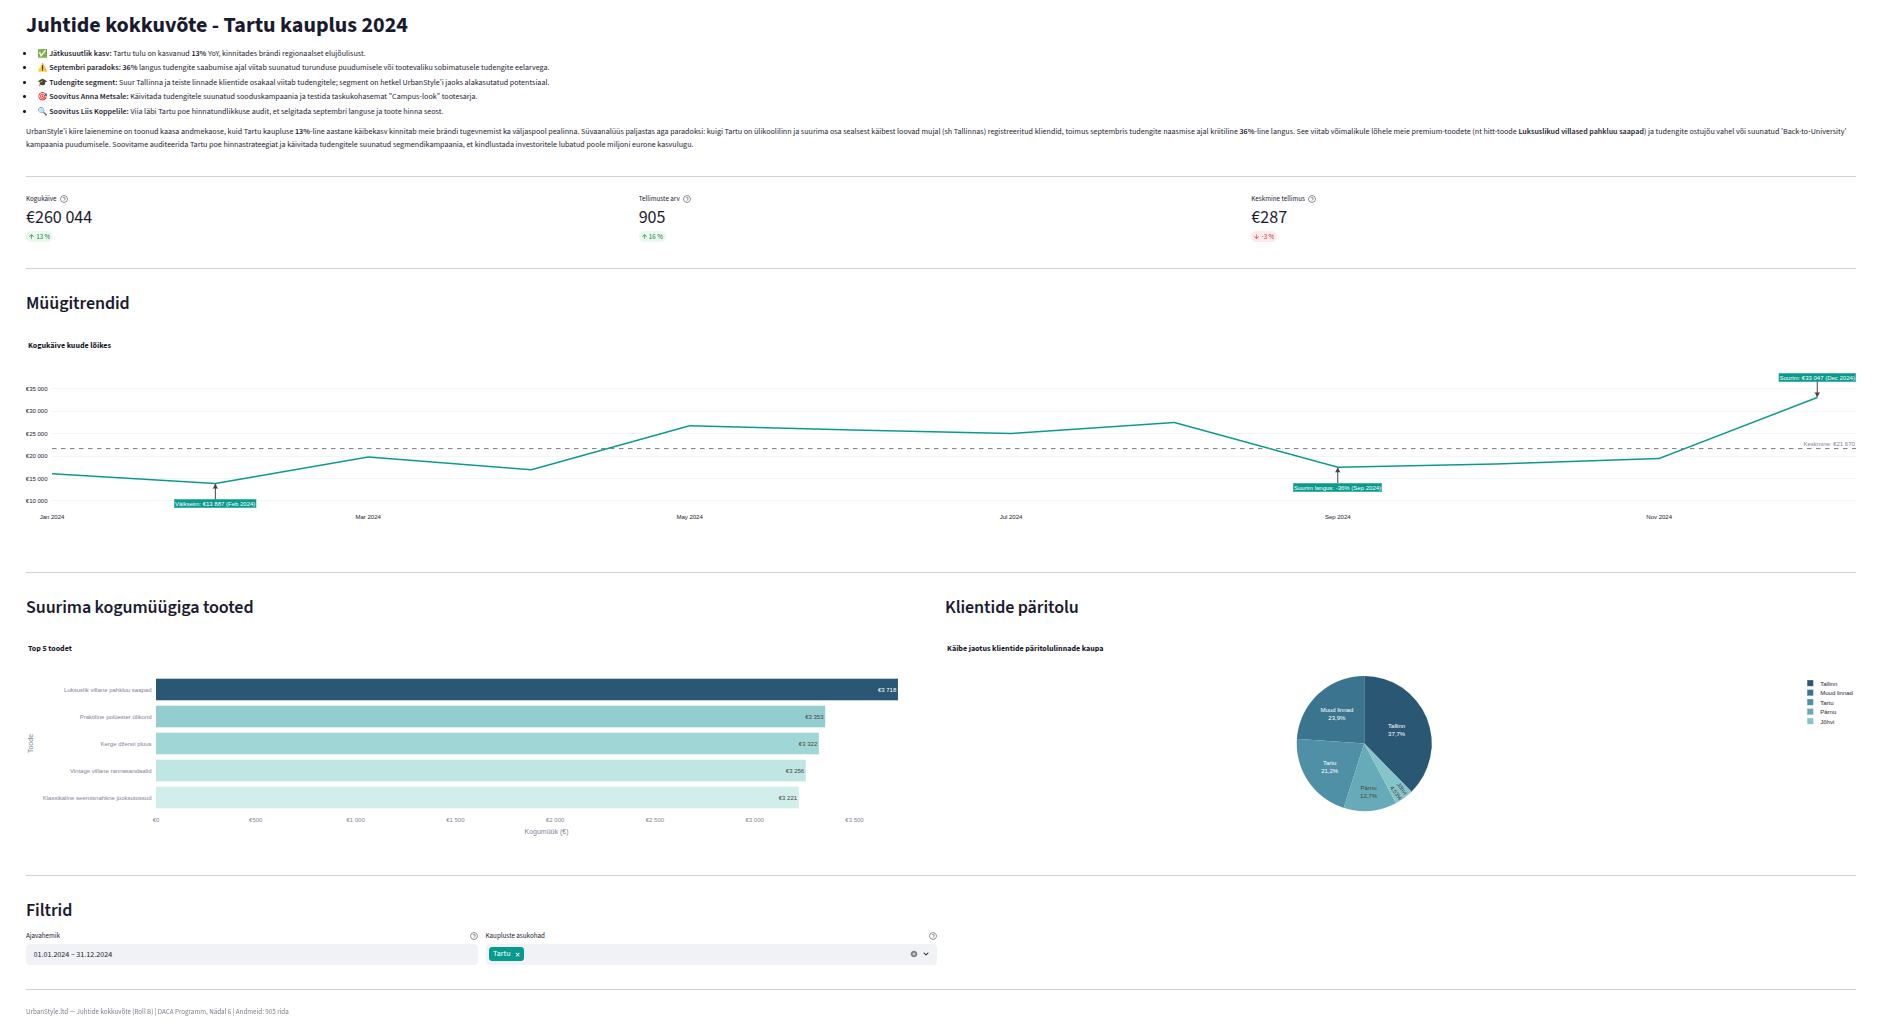
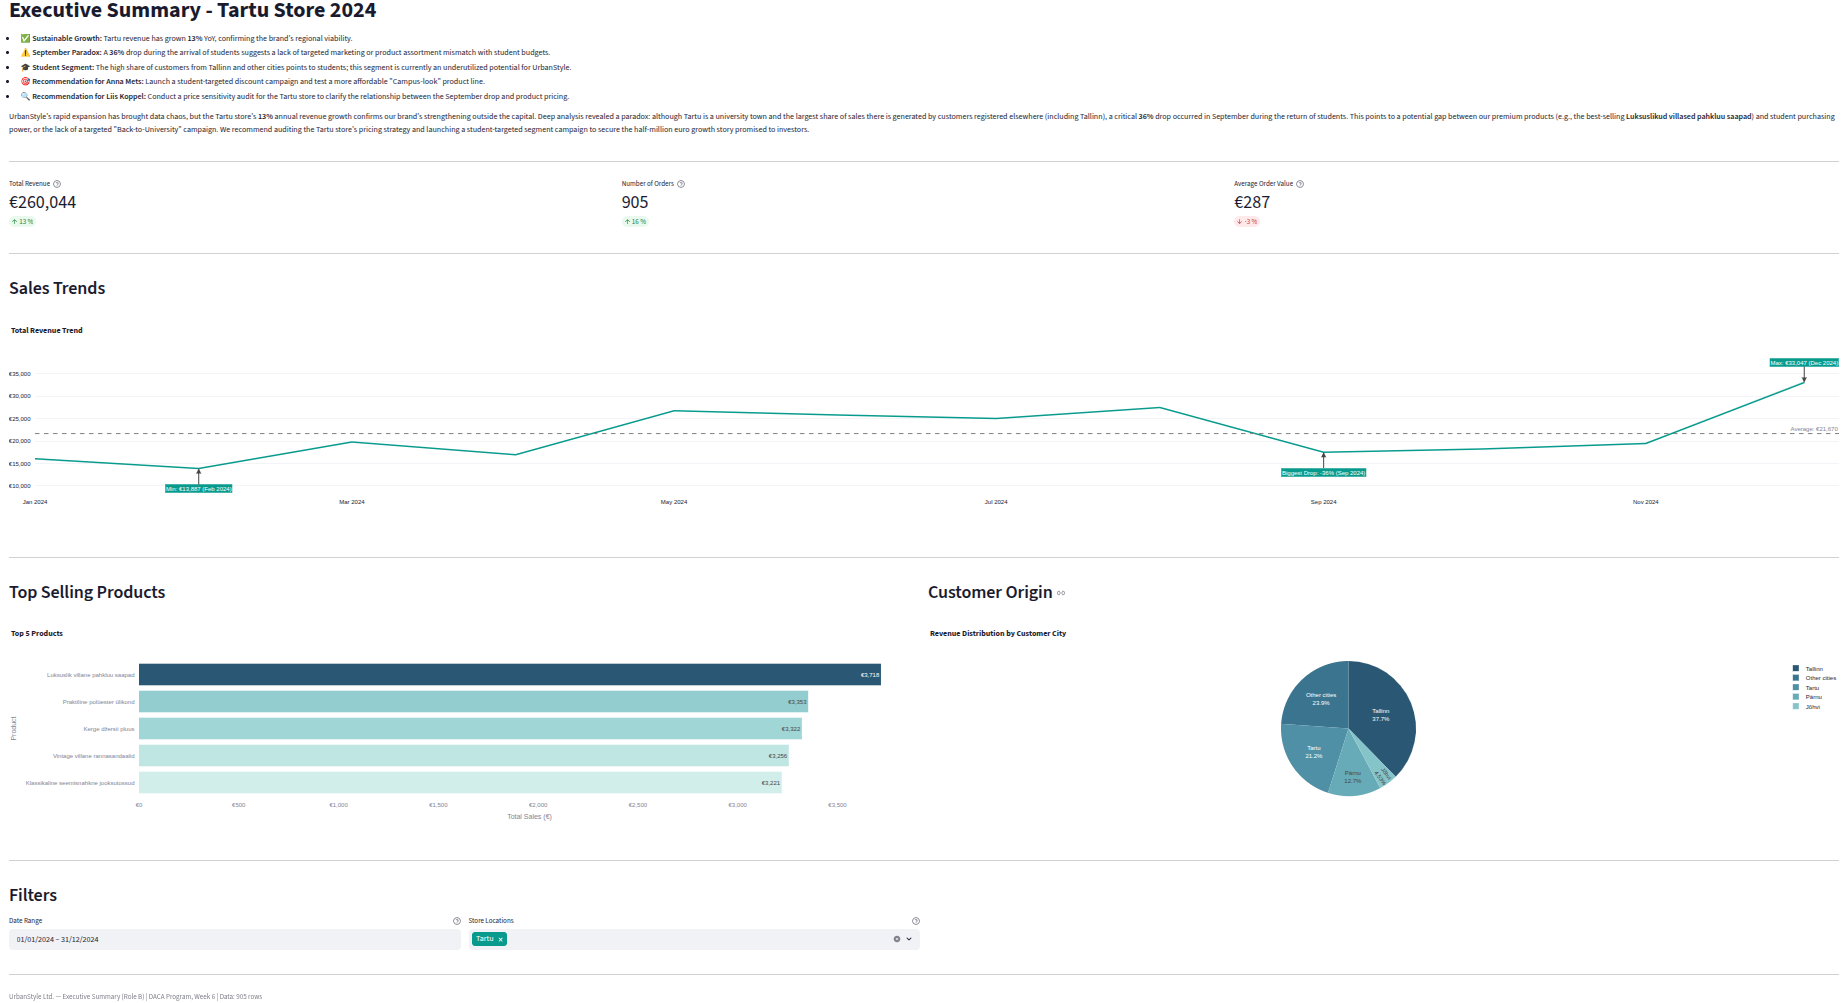
Use English date and number formats, translate related files

diff --git a/portfolio/week-06/individual/dashboard/data_loader.py b/portfolio/week-06/individual/dashboard/data_loader.py
@@ -8,13 +8,13 @@ import os
 import sqlalchemy as sa
 import pandas as pd
 from pathlib import Path
+import streamlit as st
 
 from sql_filter_builder import SqlFilterBuilder
 
 CACHE_TTL = 300
 
 try:
-    import streamlit as st
     # Streamlit Cloud environment - no .env file available, uses secrets instead.
     supabase_connection_string = st.secrets["supabase"]["connection_string"]
 except Exception:
@@ -121,7 +121,7 @@ def _fetch_filtered_data(template_file_name, filters):
     where_clause, sql_params = builder.build()
     sql_params["interval"] = filters["interval"]
     
-    # Load your SQL template
+    # Load the SQL template
     sql_template = _load_query_template(template_file_name)
     
     # Inject the generated WHERE clause into the template
@@ -129,7 +129,7 @@ def _fetch_filtered_data(template_file_name, filters):
         sql_template.replace("{{filters_section}}", where_clause)
     )
     
-    # Execute query using your database utility
+    # Execute query
     return pd.read_sql(query, supabase, params=sql_params)
 
 def _load_query_template(filename):

diff --git a/portfolio/week-06/individual/dashboard/utils.py b/portfolio/week-06/individual/dashboard/utils.py
@@ -3,7 +3,7 @@ import math
 
 def format_date(date):
     """
-    Format a date object into Estonian date format string (DD.MM.YYYY).
+    Format a date object into English date format string (DD MMM YYYY).
 
     Args:
         date (datetime.date): The date to format.
@@ -11,7 +11,7 @@ def format_date(date):
     Returns:
         str: The formatted date string.
     """
-    return date.strftime("%d.%m.%Y")
+    return date.strftime("%d %b %Y")
 
 def format_date_as_text(date):
     """
@@ -108,7 +108,7 @@ def format_as_percentage(value, precision=0):
 
 def format_number(value, precision=0):
     """
-    Format a number with thousands separators as spaces and decimal separator as comma.
+    Format a number with thousands separators as commas and decimal separator as dot.
 
     Args:
         value (float): The number to format.
@@ -117,4 +117,4 @@ def format_number(value, precision=0):
     Returns:
         str: The formatted number string.
     """
-    return f"{value:,.{precision}f}".replace(",", " ").replace(".", ",")
+    return f"{value:,.{precision}f}"

diff --git a/portfolio/week-06/individual/dashboard/charts.py b/portfolio/week-06/individual/dashboard/charts.py
@@ -104,7 +104,7 @@ def create_revenue_trend(data):
         hovermode="x unified",
         yaxis_tickformat=",.0f",
         yaxis_tickprefix="€",
-        separators=", "
+        separators=".,"
     )
 
     # Step 3: Change line color and width
@@ -166,7 +166,7 @@ def create_top_products(df, top_n=5):
         xaxis_tickformat=",.0f",
         xaxis_tickprefix="€",
         coloraxis_showscale=False,
-        separators=", ",
+        separators=".,",
         yaxis={"categoryorder": "total ascending"}
     )
  
@@ -206,7 +206,7 @@ def create_sales_by_customer_city(df):
     fig.update_layout(
         font_family="Arial",
         title_font_size=16,
-        separators=", "
+        separators=".,"
     )
  
     return fig

diff --git a/portfolio/week-06/individual/dashboard/app.py b/portfolio/week-06/individual/dashboard/app.py
@@ -110,7 +110,7 @@ def add_date_range_filter(filters, container, default_filter_settings):
     
     date_range = container.date_input(
         "Date Range",
-        format="DD.MM.YYYY",
+        format="DD/MM/YYYY",
         value=default_filter_settings["date_range"],
         min_value=min_date,
         max_value=max_date,

diff --git a/portfolio/week-06/individual/week6_tartu_narrative.md b/portfolio/week-06/individual/week6_tartu_narrative.md
@@ -1,11 +1,9 @@
-# Andmelugu
-
-UrbanStyle’i kiire laienemine on toonud kaasa andmekaose, kuid Tartu kaupluse **13%**-line aastane
-käibekasv kinnitab meie brändi tugevnemist ka väljaspool pealinna.
-Süvaanalüüs paljastas aga paradoksi: kuigi Tartu on ülikoolilinn ja suurima osa sealsest käibest
-loovad mujal (sh Tallinnas) registreeritud kliendid, toimus septembris tudengite naasmise ajal
-kriitiline **36%**-line langus. See viitab võimalikule lõhele meie premium-toodete
-(nt hitt-toode **Luksuslikud villased pahkluu saapad**) ja tudengite ostujõu vahel
-või suunatud 'Back-to-University' kampaania puudumisele. Soovitame auditeerida
-Tartu poe hinnastrateegiat ja käivitada tudengitele suunatud segmendikampaania,
-et kindlustada investoritele lubatud poole miljoni eurone kasvulugu.
+UrbanStyle's rapid expansion has brought data chaos, but the Tartu store's **13%** annual
+revenue growth confirms our brand's strengthening outside the capital.
+Deep analysis revealed a paradox: although Tartu is a university town and the largest share of sales
+there is generated by customers registered elsewhere (including Tallinn), a critical **36%**
+drop occurred in September during the return of students. This points to a potential gap between
+our premium products (e.g., the best-selling **Luksuslikud villased pahkluu saapad**) and student purchasing
+power, or the lack of a targeted "Back-to-University" campaign. We recommend auditing the
+Tartu store's pricing strategy and launching a student-targeted segment campaign to secure the
+half-million euro growth story promised to investors.

diff --git a/portfolio/week-06/individual/week6_executive_summary.md b/portfolio/week-06/individual/week6_executive_summary.md
@@ -1,7 +1,5 @@
-# Juhtide kokkuvõte
-
-* ✅ **Jätkusuutlik kasv:** Tartu tulu on kasvanud **13%** YoY, kinnitades brändi regionaalset elujõulisust.
-* ⚠ **Septembri paradoks:** **36%** langus tudengite saabumise ajal viitab suunatud turunduse puudumisele või tootevaliku sobimatusele tudengite eelarvega.
-* 🎓 **Tudengite segment:** Suur Tallinna ja teiste linnade klientide osakaal viitab tudengitele; segment on hetkel UrbanStyle'i jaoks alakasutatud potentsiaal.
-* 🎯 **Soovitus Anna Metsale:** Käivitada tudengitele suunatud sooduskampaania ja testida taskukohasemat "Campus-look" tootesarja.
-* 🔍 **Soovitus Liis Koppelile:** Viia läbi Tartu poe hinnatundlikkuse audit, et selgitada septembri languse ja toote hinna seost.
+* ✅ **Sustainable Growth:** Tartu revenue has grown **13%** YoY, confirming the brand's regional viability.
+* ⚠ **September Paradox:** A **36%** drop during the arrival of students suggests a lack of targeted marketing or product assortment mismatch with student budgets.
+* 🎓 **Student Segment:** The high share of customers from Tallinn and other cities points to students; this segment is currently an underutilized potential for UrbanStyle.
+* 🎯 **Recommendation for Anna Mets:** Launch a student-targeted discount campaign and test a more affordable "Campus-look" product line.
+* 🔍 **Recommendation for Liis Koppel:** Conduct a price sensitivity audit for the Tartu store to clarify the relationship between the September drop and product pricing.
